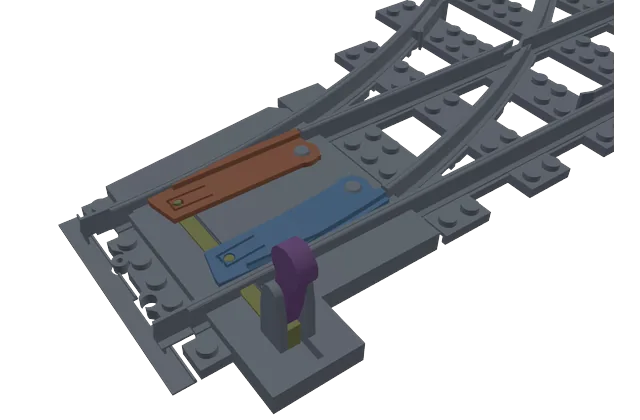
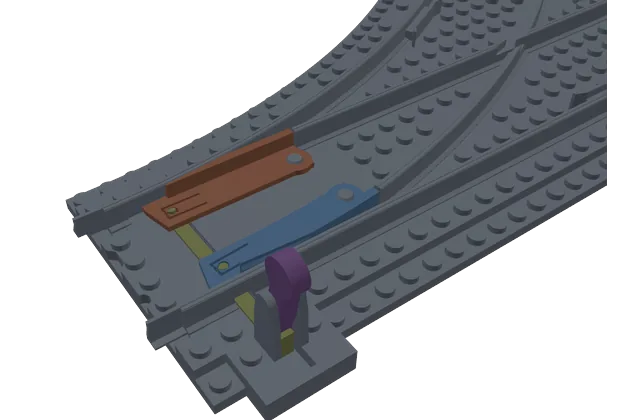
feat: sprung blades (Blade shape: sprung)
As the sprung blades' 2-05-025 (flat-top version): a 3 mm plate with a flat, closed
top on a LEGO stud (blind hole), the blade rail on it; the spring two beams
in a pocket underneath, the slider's post between their free ends; supports
for the pocket's roof built in (0.2 under it, slit off the beams), broken
out after printing. The slider meets the blades at the points. On ballast
only for now (track alone the bed is raised over the slider: simple blades,
with a note). The bracket and spring-back are greyed out with it.

Changed region(s): [[0.0938, 0.0, 0.9688, 1.0], [0.25, 0.3095, 0.3438, 0.3714], [0.2188, 0.3714, 0.25, 0.4024]]

diff --git a/src/switch/base.ts b/src/switch/base.ts
@@ -96,13 +96,31 @@ const frags = (r: number) => Math.ceil(Math.max(Math.min(360 / 12, (r * 2 * Math
 const FDB = { plateT: 1.6, plateW: 10, pivotIn: 7, pinD: 4, discR: 5, tongueW: 3.6, tongueL: 9, slotW: 0.7, postD: 2.2, rodW: 4 };
 // (spring-back tongues: the plate wider for them; the beam's length and width, the wall round the post's hole)
 const SB = { plateW: 14, len: 21, beamW: 1.4, padWall: 0.9 };
+/**
+ * the sprung blades (bladeStyle 'sprung', as their 2-05-025): the plate 3 mm
+ * thick with a flat, closed top, turning on a LEGO stud (a blind hole
+ * underneath); the spring two beams in a pocket underneath, rooted at its heel
+ * end, the slider's post between their free ends; either side of them solid
+ * supports for the pocket's roof while printing, 0.2 under it and a slit off
+ * the beams, broken out after. (The plate's width counts from the blade's
+ * inner face: 15.9 in all, as theirs.)
+ */
+const D4 = { plateT: 3.0, plateW: 13.4, holeD: 4.85, holeDepth: 2.2, pocketH: 1.8, beamW: 1.2, beamH: 1.4, supportGap: 0.2, slit: 0.3, root: 34.5, past: 4 };
+/** sprung blades: on ballast only, where the bed is at the sleepers' top (track alone, it's raised over the slider's tunnel: no room for the 3 mm plate under a blade). */
+const fdbFourD = (p: { bladeStyle?: string; generateBallast?: boolean; mechStyle?: string }) => p.bladeStyle === 'sprung' && !!p.generateBallast && p.mechStyle === 'plates';
+/** The plate's thickness. */
+const fdbPlateT = (p: { bladeStyle?: string; generateBallast?: boolean; mechStyle?: string }) => (fdbFourD(p) ? D4.plateT : FDB.plateT);
+/** (sprung blades) The beams' gap (the post between them) and how far each side the pocket reaches from the post. */
+const d4Gap = () => FDB.postD + 0.1;
+const d4Half = (give: number) => d4Gap() / 2 + D4.beamW + give + 0.6;
 /** How much plate there must be round the pin's hole and alongside the tongue's slot (mm). */
 const FDB_RIM = 2;
 type SetLike = PointsSetValues & { three?: { S: Route; L: Route; R: Route; half: number } };
 /** Spring-back tongues (throwAction 'springback'), not on a three-way: its blades go twice as far. */
-const fdbSpringback = (p: BaseParams, sets: object[]) => p.mechStyle === 'plates' && p.throwAction === 'springback' && !sets.some((v) => 'three' in v);
+const fdbSpringback = (p: BaseParams, sets: object[]) => p.mechStyle === 'plates' && p.throwAction === 'springback' && !fdbFourD(p) && !sets.some((v) => 'three' in v);
 /** A blade plate's width: with spring-back tongues wide enough for the tongue to give its all and leave 1.2 each side. */
 function fdbPlateW(v: SetLike, p: BaseParams, springback: boolean) {
+  if (fdbFourD(p)) return D4.plateW;
   if (!springback) return FDB.plateW;
   const G = switchGlobals(p).G, pivY = railPoint(v.ra, v.sHeel - 4, -G)[1];
   const give = p.pointThrow * Math.max(0, pivY - v.throwY) / Math.max(1, pivY - v.toeY) + p.springPreload + 0.3;
@@ -140,7 +158,7 @@ const unit = (v: Pt): Pt => mul(v, 1 / norm(v));
  */
 function fdbLayout(v: SetLike, p: BaseParams, rails: [Route, number, number][], springback: boolean): FdbBladeLayout[] {
   const g = switchGlobals(p), G = g.G, c = p.pointClearance, pre = p.springPreload;
-  const z0 = g.bedTop + c, z1 = z0 + FDB.plateT, railTop = PLATE_H + 6.4;
+  const z0 = g.bedTop + c, z1 = z0 + fdbPlateT(p), railTop = PLATE_H + 6.4, fourD = fdbFourD(p);
   const hw = railHalfW(z0, z1) + c, hwBar = railHalfW(z1, railTop) + c;
   const own = v.three ? [v.three.S, v.three.L, v.three.R] : [v.ra, v.rb];
   // (the other rails near the points, as runs of points 0.5 apart; not where one runs along one of the set's own rails)
@@ -193,6 +211,8 @@ function fdbLayout(v: SetLike, p: BaseParams, rails: [Route, number, number][], 
         const give = (f.ang * n3 * Math.PI / 180) * norm(sub(f.post, f.pivot)) + pre + 0.3, w = FDB.postD / 2 * Math.SQRT2 + c + SB.padWall + give + 0.4;
         return [-w, SB.len + 3, -w, w];
       }
+      // (sprung: the spring's pocket, from just past the post toward the toe back to the beams' roots)
+      if (fourD) { const h = d4Half((f.ang * n3 * Math.PI / 180) * norm(sub(f.post, f.pivot)) + pre); return [-D4.past, D4.root, -h, h]; }
       const w = FDB.tongueW / 2 + FDB.slotW;
       return [-w, FDB.tongueL, -w, w];
     };
@@ -200,7 +220,7 @@ function fdbLayout(v: SetLike, p: BaseParams, rails: [Route, number, number][], 
       const d = sub(q, at), a = d[0] * u[0] + d[1] * u[1], cc = d[0] * u[1] - d[1] * u[0];
       return Math.hypot(Math.max(bx[0] - a, 0, a - bx[1]), Math.max(bx[2] - cc, 0, cc - bx[3]));
     };
-    const pinR = FDB.pinD / 2 + c;
+    const pinR = (fourD ? D4.holeD : FDB.pinD) / 2 + c;
     const pinOk = (f: ReturnType<typeof make>) => near(f.pivot, 30).every((q) => norm(sub(q, f.pivot)) >= pinR + FDB_RIM + hw);
     const tongueOk = (f: ReturnType<typeof make>) => {
       const bx = slotBox(f);
@@ -210,7 +230,7 @@ function fdbLayout(v: SetLike, p: BaseParams, rails: [Route, number, number][], 
       return angles(f).every((a) => { const P = rotAbout(f.post, f.pivot, a), U = unit(sub(f.pivot, P)); return qs.every((q) => boxDist(q, P, U, bx) >= FDB_RIM + hw); });
     };
     // (the pin's snap lip clear of the blade's rail on the plate)
-    const minPin = HEAD_HW + FDB.pinD / 2 + 2 * c + 0.15 + 0.2;
+    const minPin = HEAD_HW + (fourD ? D4.holeD : FDB.pinD) / 2 + 2 * c + 0.15 + 0.2;
     for (let shift = 0; shift <= 40; shift += 1) {
       for (let pin = FDB.pivotIn; pin >= minPin - 1e-9; pin -= 0.25) {
         if (!pinOk(make(shift, pin, postIn0))) continue;
@@ -220,7 +240,7 @@ function fdbLayout(v: SetLike, p: BaseParams, rails: [Route, number, number][], 
           return shift ? { ...f, stockKeep: stockBehind(f), stockHw: hw } : f;
         }
       }
-      if (sOf(rt, railPoint(rt, v.sHeel - 4 - shift, o)) - sPost < FDB.tongueL + pinR + FDB_RIM) break;
+      if (sOf(rt, railPoint(rt, v.sHeel - 4 - shift, o)) - sPost < (fourD ? D4.root : FDB.tongueL) + pinR + FDB_RIM) break;
     }
     return { ...f0, blocked: "there's no room for plate round its pin and its tongue" };
   });
@@ -471,6 +491,7 @@ export function switchPlan(routes: Route[], specs: SetSpec[], p: BaseParams = BA
     if (p.throwStand && sets.some((v) => 'three' in v))
       notes.push("a switch stand locks at its two ends: a three-way's middle (straight) position is with the handle upright, not locked");
   }
+  if (p.bladeStyle === 'sprung' && p.mechStyle === 'plates' && !p.generateBallast) notes.push("sprung blades need ballast (track alone, the bed is raised over the slider: no room for their 3 mm plate): simple blades are used");
   if (p.pointBlades === 1 && p.mechStyle === 'plates' && sets.some((v) => 'three' in v)) notes.push("a three-way's points keep both blades: one blade can't steer three ways");
   if (!planOk(baseCuts)) warnings.push(`the switch doesn't fit the ${p.printBedX} x ${p.printBedY} print bed even when split across: it may be too wide`);
   const bySetY = [...sets].sort((a, b) => a.toeY - b.toeY);
@@ -586,7 +607,11 @@ export function switchGeometry(s: Scad, plan: SwitchPlan, extraCuts: Man[] = [])
   const fdb = p.mechStyle === 'plates';
   /** The blades that move (a single-point switch's one; else both). */
   const blades = (v: SetV) => [0, 1].filter((b) => b !== v.fixed);
-  const holdOn = fdb && p.bladeHold === 'bracket';
+  /** the sprung blades (D4): no bracket to hold them down; they sit on studs. */
+  const fourD = fdbFourD(p);
+  const holdOn = fdb && p.bladeHold === 'bracket' && !fourD;
+  /** The blade plates' thickness; where the slider's posts reach up to (into the tongue's slot, or the sprung blades' spring pocket). */
+  const plateT = fdbPlateT(p), postTop = bedTop + c + (fourD ? D4.pocketH - 0.3 : FDB.plateT - 0.2);
   const stockFootCut = (v: SetV) => fdb ? s.union([]) : s.union([0, 1].map((b) => {
     const side = bSide(b), face = bO(b) + side * HEAD_HW;
     return sweep(sq([10, bedTop + 3 - floorZ], [side > 0 ? face : face - 10, floorZ]), bOther(v, b), v.sToe - 2, v.sHeel + g.discR);
@@ -1011,7 +1036,7 @@ export function switchGeometry(s: Scad, plan: SwitchPlan, extraCuts: Man[] = [])
     // outer face, and with prototype blades on in under the stock rail's undercut head)
     // (spring-back tongues' wider plate only as far as the tongue's root and a little more: back to the usual
     // width toward the heel, where the routes' rails close in)
-    const sRoot = sPost + SB.len + 4, wAt = (k: number) => { const sk = s0 + ((s1 - s0) * k) / n; return FDB.plateW + (plateW(v) - FDB.plateW) * Math.min(1, Math.max(0, 1 - (sk - sRoot) / 8)); };
+    const sRoot = sPost + SB.len + 4, wAt = (k: number) => { const sk = s0 + ((s1 - s0) * k) / n; return fourD ? plateW(v) : FDB.plateW + (plateW(v) - FDB.plateW) * Math.min(1, Math.max(0, 1 - (sk - sRoot) / 8)); };
     const innerEdge = Array.from({ length: n + 1 }, (_, k) => railPoint(rt, s0 + ((s1 - s0) * k) / n, o + side * (HEAD_HW + wAt(k))) as Vec2);
     const outer = edge(protoOn ? -HEAD_HW - PROTO.cut - 0.5 : -HEAD_HW), inner = innerEdge.map((q, k) => { const t = Math.min(1, k / kFull); const e = outer[k]; return [e[0] + (q[0] - e[0]) * (0.35 + 0.65 * t), e[1] + (q[1] - e[1]) * (0.35 + 0.65 * t)] as Vec2; });
     let plate = W.CrossSection.union([s.polygon([...outer, ...inner.reverse()]), circle(FDB.discR, 40, fb.pivot)]);
@@ -1024,7 +1049,8 @@ export function switchGeometry(s: Scad, plan: SwitchPlan, extraCuts: Man[] = [])
       // (the hole for the slider's post: its teardrop, turned as the plate is turned back from where it's modelled)
       fdbPost2d([0, 0], c).rotate(-fb.open).translate(fb.post as Vec2),
     ]);
-    plate = plate.subtract(slot).subtract(circle((FDB.pinD + 2 * c) / 2, 24, fb.pivot));
+    // (the sprung blades': the top flat and closed, the spring and the stud's hole underneath: fdbBladePart)
+    if (!fourD) plate = plate.subtract(slot).subtract(circle((FDB.pinD + 2 * c) / 2, 24, fb.pivot));
     // (clear of other track running past: what's left of it on the blade's side, where the blade's rail and the pin are)
     const keep = fdbKeep2d(v, b);
     if (keep) {
@@ -1074,7 +1100,7 @@ export function switchGeometry(s: Scad, plan: SwitchPlan, extraCuts: Man[] = [])
   };
   /** A blade part, as assembled for the right-hand route: its plate on the bed, its rail on the plate. */
   const fdbBladePart = (v: SetV, b: number) => {
-    const fb = fdbBlades(v)[b], z0 = bedTop + c, z1 = z0 + FDB.plateT;
+    const fb = fdbBlades(v)[b], z0 = bedTop + c, z1 = z0 + plateT;
     const rt = bRt(v, b), o = bO(b), oStock = bO(b), sideS = oStock < 0 ? 1 : -1, face = oStock + sideS * (HEAD_HW + c);
     // (prototype blades: tight against the stock rail, tucked under its undercut head, from where the point's wide enough to print)
     const keep = protoOn ? sweep(protoKeep2d(oStock, sideS, PROTO.fit, z0 - 1, railTop + 1), bOther(v, b), 0, v.sHeel + 5) : undefined;
@@ -1098,8 +1124,33 @@ export function switchGeometry(s: Scad, plan: SwitchPlan, extraCuts: Man[] = [])
     const plateOff = protoOn ? (flareW ? s.difference(keep!, [sweep(sq([30, 40], [sideS > 0 ? face + flareW - 30 : face - flareW, z0 - 1]), bOther(v, b), protoPlaneEnd(v, b), v.sHeel + 5)]) : keep!) : offEdge(0);
     // (and clear of the stock rail's actual shape, foot and all; the prototype's undercut: the keep above)
     const stock = protoOn ? s.union([]) : sweep(rail2d(oStock).offset(c, 'Miter', 1000), bOther(v, b), 0, v.sHeel + 10);
-    const plate = s.difference(s.intersection(s.intersection(T(s.extrude(fdbPlate2d(v, b), FDB.plateT), [0, 0, z0]), plateOff), cube([400, 400, 50], [-200, y0, z0 - 10])), [stock]);
+    const plate2d = fdbPlate2d(v, b);
+    let plate = s.difference(s.intersection(s.intersection(T(s.extrude(plate2d, plateT), [0, 0, z0]), plateOff), cube([400, 400, 50], [-200, y0, z0 - 10])), [stock]);
+    if (fourD) plate = d4Underside(v, b, plate, plate2d, z0, (m) => s.difference(s.intersection(m, plateOff), [stock]));
     return rot3(s.union([plate, bar]), fb.pivot, fb.open);
+  };
+  /**
+   * (sprung blades) Under the plate: the stud's blind hole at the pin, and the
+   * spring's pocket round the post with its two beams (rooted at the pocket's
+   * heel end, free just past the post, the post between them) and the
+   * supports for its roof (0.2 under it, a slit off the beams and in off the
+   * pocket's sides, to break out after printing).
+   */
+  const d4Underside = (v: SetV, b: number, plate: Man, plate2d: CS, z0: number, clip: (m: Man) => Man): Man => {
+    const fb = fdbBlades(v)[b], d = sub(fb.pivot, fb.post), u = mul(d, 1 / norm(d)), nn: Pt = [u[1], -u[0]];
+    const at = (a: number, c2: number): Vec2 => add(add(fb.post, mul(u, a)), mul(nn, c2)) as Vec2;
+    const box = (a0: number, a1: number, c0: number, c1: number) => s.polygon([at(a0, c0), at(a1, c0), at(a1, c1), at(a0, c1)]);
+    const give = rad(fb.ang * (v.three ? 2 : 1)) * norm(d) + p.springPreload, h = d4Half(give), g2 = d4Gap() / 2;
+    // (the pocket inside the plate: a rim of at least 1 all round)
+    const pocket = box(-D4.past, D4.root, -h, h).intersect(plate2d.offset(-1, 'Miter', 1000));
+    const beams = W.CrossSection.union([box(-D4.past + 1, D4.root + 0.5, g2, g2 + D4.beamW), box(-D4.past + 1, D4.root + 0.5, -g2 - D4.beamW, -g2)]).intersect(pocket.offset(0.01, 'Miter', 1000));
+    const supports = pocket.offset(-0.9, 'Miter', 1000).subtract(W.CrossSection.union([beams, box(-D4.past, D4.root, -g2, g2)]).offset(D4.slit, 'Miter', 1000));
+    const hole = T(s.cylinder(D4.holeDepth + 1, D4.holeD / 2, D4.holeD / 2, 40), [fb.pivot[0], fb.pivot[1], z0 - 1]);
+    return s.union([
+      s.difference(plate, [T(s.extrude(pocket, D4.pocketH + 1), [0, 0, z0 - 1]), hole]),
+      clip(T(s.extrude(beams, D4.beamH), [0, 0, z0])),
+      ...(supports.area() > 1 ? [clip(T(s.extrude(supports, D4.pocketH - D4.supportGap), [0, 0, z0]))] : []),
+    ]);
   };
 
   // ---------- prototype blades (bladeStyle 'prototype') ----------
@@ -1179,7 +1230,7 @@ export function switchGeometry(s: Scad, plan: SwitchPlan, extraCuts: Man[] = [])
     const groove = W.CrossSection.hull([fdbPost2d([far[0] - v.throwDir * T2, v.throwY - dy], c), fdbPost2d([far[0] - v.throwDir * T2, v.throwY + dy], c),
       fdbPost2d([mouth, v.throwY - dy], c), fdbPost2d([mouth, v.throwY + dy], c)]);
     // (up past the posts' tops: through the stock rail's foot too, where they pass under it going in)
-    const top = bedTop + c + FDB.plateT + 0.2;
+    const top = postTop + 0.4;
     return T(s.extrude(groove, top - g.layerTop + 0.01), [0, 0, g.layerTop - 0.01]);
   };
   /** Cut from the bed: the slider's tunnel (floored) and its posts' groove. */
@@ -1191,7 +1242,7 @@ export function switchGeometry(s: Scad, plan: SwitchPlan, extraCuts: Man[] = [])
     const xs = [...fdbPostAt(v).map((q) => q[0]), v.forkX], x0 = Math.min(...xs) - 3, x1 = Math.max(...xs) + forkHw;
     const slotW = g.leverTipD + 2 * c, m = v.forkMouthHw;
     // (the posts up into the blades' tongues, to just under the plates' tops)
-    const posts = fdbPostAt(v).map((q) => T(s.extrude(fdbPost2d(q, 0), bedTop + c + FDB.plateT - 0.2 - z1 + 0.01), [0, 0, z1 - 0.01]));
+    const posts = fdbPostAt(v).map((q) => T(s.extrude(fdbPost2d(q, 0), postTop - z1 + 0.01), [0, 0, z1 - 0.01]));
     const body = s.union([cube([x1 - x0, rodW, z1 - z0], [x0, v.throwY - rodW / 2, z0]), ...posts, ...fdbSliderExtra(v),
       cube([2 * forkHw, rodW, v.forkTop - z0], [v.forkX - forkHw, v.throwY - rodW / 2, z0])]);
     if (v.stand) {
@@ -1218,7 +1269,10 @@ export function switchGeometry(s: Scad, plan: SwitchPlan, extraCuts: Man[] = [])
   };
   /** The pins the blades turn on, standing on the bed. */
   // (each with a little snap lip over the plate, so the blade stays on: the plate's hole squeezes past it)
-  const fdbPins = (v: SetV) => s.union([...fdbBlades(v).filter((_, b) => b !== v.fixed).flatMap((f) => holdOn
+  const fdbPins = (v: SetV) => s.union([...fdbBlades(v).filter((_, b) => b !== v.fixed).flatMap((f) => fourD
+    // (the sprung blades': a LEGO stud, the plate's hole over it)
+    ? [T(s.cylinder(p.studH + 0.01, t.o.studD / 2, t.o.studD / 2, 40), [f.pivot[0], f.pivot[1], bedTop - 0.01])]
+    : holdOn
     // (held down by a bracket: the pin plain, up through the bracket's top to locate it)
     ? [T(s.cylinder(c + FDB.plateT + c + HOLD.t, FDB.pinD / 2, FDB.pinD / 2, 24), [f.pivot[0], f.pivot[1], bedTop - 0.01])]
     : [T(s.cylinder(c + FDB.plateT + 0.8, FDB.pinD / 2, FDB.pinD / 2, 24), [f.pivot[0], f.pivot[1], bedTop - 0.01]),
@@ -1245,7 +1299,7 @@ export function switchGeometry(s: Scad, plan: SwitchPlan, extraCuts: Man[] = [])
   };
   /** A bracket as assembled: over its blade's plate, on its feet, pegs down into the bed; a hole for the pin. */
   const holdPart = (v: SetV, b: number) => {
-    const h = holdPlan(v, b), z0 = bedTop + c + FDB.plateT + c, z1 = z0 + HOLD.t;
+    const h = holdPlan(v, b), z0 = bedTop + c + plateT + c, z1 = z0 + HOLD.t;
     return s.difference(s.union([
       T(s.extrude(h.top, HOLD.t), [0, 0, z0]),
       ...h.feet.map((q) => T(s.extrude(h.foot(q), z0 - bedTop + 0.01), [0, 0, bedTop])),
@@ -1314,7 +1368,7 @@ export function switchGeometry(s: Scad, plan: SwitchPlan, extraCuts: Man[] = [])
     T(s.cylinder(0.6, OC.pinD / 2 + c + 0.1, OC.pinD / 2, 24), [q[0], q[1], ocZ0() + OC.h + 0.1]),
   ]);
   /** The post on the slider for the spring's middle ring (its teardrop as the blades' posts), up to theirs. */
-  const ocPost = (v: SetV) => T(s.extrude(fdbPost2d(ocGeo(v).P, 0), bedTop + c + FDB.plateT - 0.2 - g.layerTop + 0.01), [0, 0, g.layerTop - 0.01]);
+  const ocPost = (v: SetV) => T(s.extrude(fdbPost2d(ocGeo(v).P, 0), postTop - g.layerTop + 0.01), [0, 0, g.layerTop - 0.01]);
 
   // ---------- the moving parts (points, throw, lever) ----------
   const tineFloorT = 0.45, postW = 1.2, postL = 3;

diff --git a/src/app/main.ts b/src/app/main.ts
@@ -1040,13 +1040,15 @@ const OPTION_FORM: OptSection[] = [
       { v: '2', t: 'Two', tip: 'Both blades move, as LEGO and most model switches.' },
       { v: '1', t: 'One (single point)', tip: 'Only the blade on the curved side moves; the other rail is fixed, with a flangeway beside its stock rail, as a tram\'s single-point switch.',
         con: 'The one blade steers both ways: a wheel can pick the wrong way if the wheels are loose. Three-ways keep both blades.' }] },
-    { key: 'bladeHold', label: 'Blades held down by', off: onlyPlates, choices: [
+    { key: 'bladeHold', label: 'Blades held down by', off: (c) => onlyPlates(c) ?? (c.o.bladeStyle === 'sprung' && c.ballast ? 'Blade shape is sprung: they sit on studs' : undefined), choices: [
       { v: 'lip', t: 'Snap lip on the pin', tip: 'Each blade plate snaps over a lip on its pin. Nothing extra to print.', con: 'A printed lip can wear.' },
       { v: 'bracket', t: 'Small bracket over the blade', tip: 'A small bracket pegged into the bed covers each blade plate so it can\'t lift.', con: 'Two more small parts to print.' }] },
     { key: 'bladeStyle', label: 'Blade shape', off: onlyPlates, choices: [
       { v: 'simple', t: 'Simple', tip: 'Each blade is its rail, cut off along the rail it closes against.' },
       { v: 'prototype', t: 'Realistic (planed, tucked under the rail)', tip: 'Blades planed to a point and tucked under the stock rail head, so flanges can\'t catch them.',
-        con: 'Fit the blades swung open, then close them. The stock rail head is thinner along the points.' }] },
+        con: 'Fit the blades swung open, then close them. The stock rail head is thinner along the points.' },
+      { v: 'sprung', t: 'sprung', tip: 'As sprung\'s blades: a 3 mm plate with a flat top on a LEGO stud, the spring two beams in a pocket underneath, with supports built in. The slider meets them at the points.',
+        con: 'Break the supports out of the pocket after printing. Nothing holds the blades down but the stud.', no: (c) => (c.ballast ? undefined : 'needs ballast (track alone, the bed is raised over the slider): simple blades are used') }] },
     { key: 'pointsModule', label: 'Points go in', off: onlyTines, choices: [
       { v: 'built-in', t: 'From below', tip: 'The pockets open through the bottom. Fit the points before putting the track on the baseplate.' },
       { v: 'layers', t: 'From above, under a lid', tip: 'A lower layer holds the moving parts; the deck with the rails clips on top with studs.',
@@ -1068,7 +1070,8 @@ const OPTION_FORM: OptSection[] = [
     { key: 'throwAction', label: 'Points held by', off: onlyPlates, choices: [
       { v: 'detent', t: 'Lever click', tip: 'The lever clicks into place at each end.', con: 'A train trailing through the wrong way can push the points part way and derail.' },
       { v: 'overcentre', t: 'Over-centre spring', tip: 'A printed spring snaps the points to whichever side they\'re pushed. Trains can trail through.', con: 'The spring is light (about 0.3 N) and depends on print accuracy. Not on three-ways or with a switch stand.' },
-      { v: 'springback', t: 'Spring-back', tip: 'The blades give way for a trailing train and spring back after it. Use with the switch stand.', con: 'Wider blade plates and a lighter hold on the closed blade.' }] },
+      { v: 'springback', t: 'Spring-back', tip: 'The blades give way for a trailing train and spring back after it. Use with the switch stand.', con: 'Wider blade plates and a lighter hold on the closed blade.',
+        no: (c) => (c.o.bladeStyle === 'sprung' && c.ballast ? 'sprung blades spring back already (their beams): the lever click is used' : undefined) }] },
     { key: 'throwSide', label: 'Lever side', help: 'For every switch, unless set on the branch route\'s card or dragged on the plan.', choices: [
       { v: 'auto', t: 'Auto', tip: 'On the side the branch leaves (a three-way: right).' },
       { v: 'left', t: 'Left', tip: 'Left, facing along the points from the toe.' },

diff --git a/src/switch/context.ts b/src/switch/context.ts
@@ -46,8 +46,8 @@ export interface SwitchParams {
   throwAction?: 'detent' | 'overcentre' | 'springback';
   /** (the plate-style points) The throw as a switch stand (a ground throw, Caboose Industries' way): a handle swung over on an eccentric in the slider's yoke, locked past dead centre at each end. */
   throwStand?: boolean;
-  /** (the plate-style points) The blades: 'simple' (as before) or 'prototype' (planed to a point and laid tight under the stock rail's undercut head, the tie bar at the points). */
-  bladeStyle?: 'simple' | 'prototype';
+  /** (the plate-style points) The blades: 'simple' (as before), 'prototype' (planed to a point and laid tight under the stock rail's undercut head, the tie bar at the points) or 'sprung' (as the sprung blades' 2-05-025: a 3 mm plate with a flat top, on a LEGO stud, the spring two beams in a pocket underneath with built-in supports; the slider at the points). */
+  bladeStyle?: 'simple' | 'prototype' | 'sprung';
   /** (the plate-style points) What keeps each blade's plate on its pin: 'lip' (a snap lip on the pin) or 'bracket' (a little bracket on the bed over the plate round the pin, pegged in: the reference points' way). */
   bladeHold?: 'lip' | 'bracket';
   /** (the plate-style points) Blades per set: 2 (both move), or 1 (a single-point switch, as a tram's: only the blade on the more curved route moves; the other side's rail is fixed, from where it's a flangeway clear of its stock rail). A three-way keeps both. */
@@ -180,7 +180,7 @@ export function pointsSet(routes: Route[], ps: PointsSet, p: SwitchParams, defau
   // (prototype blades: the tie bar at the points, as a switch's head rod is: on the first stud line where the
   // throw arm clears the end connector (half its width past it) and its post has plate round it)
   const fdbYSimple = Math.max(toeY + 8, Math.min(fdbPivotY - 8, Math.round((fdbPivotY - 0.6 * (fdbPivotY - toeY) - 4) / 8) * 8 + 4));
-  const fdbY = p.bladeStyle === 'prototype' && p.mechStyle === 'plates'
+  const fdbY = (p.bladeStyle === 'prototype' || (p.bladeStyle === 'sprung' && p.generateBallast)) && p.mechStyle === 'plates'
     // (and with Peco's spring, room for its pin on the toe's side, past the plates' start)
     ? Math.min(fdbYSimple, Math.ceil((Math.max(toeY + 8, 8 + g.armW / 2, p.throwAction === 'overcentre' ? 8 + 12 + 4 : 0) - 4) / 8 - 1e-6) * 8 + 4) : fdbYSimple;
   const fdbTravel = p.pointThrow * (fdbPivotY - fdbY) / Math.max(1, fdbPivotY - toeY) + p.springPreload;

diff --git a/test/blades-sprung.test.ts b/test/blades-sprung.test.ts
@@ -1,0 +1,36 @@
+// the sprung blades (bladeStyle 'sprung', switch/base.ts D4): on ballast, each
+// blade a 3 mm plate on a stud with its rail on top, the spring's pocket
+// underneath with its two beams and the supports for its roof (separate bits,
+// broken out after printing). Clear of the base closed and open; track alone,
+// simple blades instead, and said.
+import { describe, expect, it } from 'vitest';
+import type { Route } from '../src/route/route';
+import { BASE_DEFAULTS, switchGeometry, switchPlan } from '../src/switch/base';
+import { kernel } from '../src/geom/kernel';
+import { R, Scad, T } from '../src/geom/scad';
+
+const A: Route = { id: 'A', start: [0, 0, 0], segments: [{ kind: 'straight', length: 500 }] };
+const B: Route = { id: 'B', start: [0, 0, 0], segments: [{ kind: 'arc', radius: 832, angle: 22.5 }, { kind: 'straight', length: 150 }] };
+const p = { ...BASE_DEFAULTS, mechStyle: 'plates' as const, throwAction: 'detent' as const, bladeStyle: 'sprung' as const, generateBallast: true };
+
+describe("the sprung blades", () => {
+  it('a 3 mm plate under a 3 mm rail; the supports separate; clear of the base both ways', async () => {
+    const plan = switchPlan([A, B], [[0, 1, 12]], p, 1), s = new Scad(await kernel()), gm = switchGeometry(s, plan), base = gm.base();
+    const parts = gm.pointsParts(0), turns = gm.pointsTurns(0)!;
+    expect(parts.length).toBe(2);
+    for (const [k, m] of parts.entries()) {
+      const bb = m.boundingBox();
+      expect(bb.max[2] - bb.min[2]).toBeGreaterThan(6);         // plate 3 + rail 3.1
+      expect(m.decompose().length).toBe(3);                      // the blade, and the two supports in its pocket
+      for (const a of [0, turns[k].swing]) {
+        const at = T(R(T(m, [-turns[k].at[0], -turns[k].at[1], 0]), [0, 0, a]), [turns[k].at[0], turns[k].at[1], 0]);
+        expect(s.intersection(at, base).volume()).toBeLessThan(1e-3);
+      }
+    }
+  }, 120000);
+
+  it('track alone: simple blades, and a note why', () => {
+    const plan = switchPlan([A, B], [[0, 1, 12]], { ...p, generateBallast: false }, 1);
+    expect(plan.notes.join(' ')).toMatch(/sprung blades need ballast/);
+  });
+});

diff --git a/src/app/design.ts b/src/app/design.ts
@@ -113,7 +113,7 @@ export interface PieceOptions {
   /** (plate-style points) What holds the points, and what a train trailing through them does: 'detent' (the lever's click), 'overcentre' (Peco's V spring: they snap over and stay), 'springback' (a spring switch: the blades give way and spring back). */
   throwAction?: 'detent' | 'overcentre' | 'springback';
   /** (plate-style points) The blades: 'simple', or 'prototype' (planed to a point, tight under the stock rail's undercut head, the tie bar at the points). */
-  bladeStyle?: 'simple' | 'prototype';
+  bladeStyle?: 'simple' | 'prototype' | 'sprung';
   /** What keeps each blade's plate on its pin: a snap lip on the pin, or a little bracket over the plate pegged into the bed. */
   bladeHold?: 'lip' | 'bracket';
   /** The points' mechanism: 'tines' (switch.scad's: under the bed, from below) or 'plates' (each blade on a plate on top of the bed on a pin, a slider bar through the bed; the blades go in from above). */
